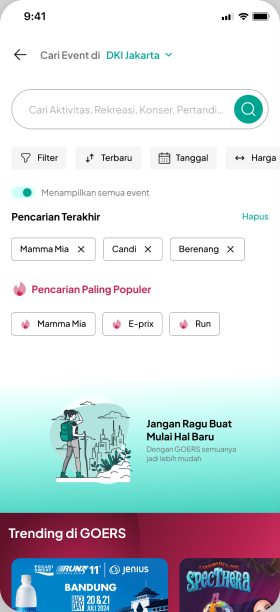
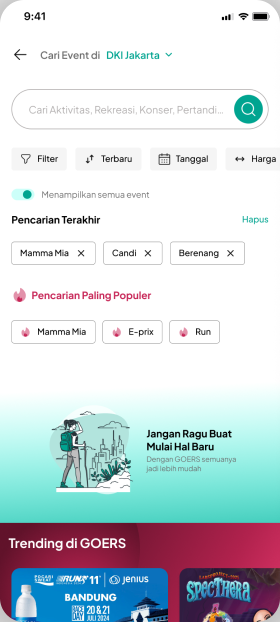
Fit phone screens to 360×800 and add a real Movin' cover (#6)
* Use the real Movin' home screen as the Mandiri Taspen cover

Claude-Session: https://claude.ai/code/session_01SQdWa2DxTx6x6MYkA5LNhw

* Fit all phone screens to 360x800 so nothing crops

Phone frames now use the 360:800 ratio on the content box, so the 3px
border no longer trims the image. Screens shorter than that ratio are
extended inside the screen instead of stretched: chat screens get more
background above the input, lists get a little more spacing. Goers and
KoinWorks covers now use full-height screens.

Claude-Session: https://claude.ai/code/session_01SQdWa2DxTx6x6MYkA5LNhw

---------

diff --git a/src/i18n/locales/ja.js b/src/i18n/locales/ja.js
@@ -165,7 +165,7 @@ export const caseStudies = [
     timeline: "2025年6月 – 2026年1月",
     scope: ["UX監査", "競合ベンチマーク", "ホーム", "検索", "情報設計", "モバイルWeb"],
     accentMetric: {"value": "4", "label": "解決したディスカバリーの課題"},
-    cover: {"src": "/work/goers/cover-home.png", "alt": "場所とカテゴリを備えた Goers の新しいモバイルホーム"},
+    cover: {"src": "/work/goers/search-landing.png", "alt": "最近の検索と人気の検索を表示する、再設計した Goers の検索画面"},
     problem: "Goers はコンサート、スポーツ、観光施設、コミュニティイベントのチケットを販売し、クリエイターが自分のイベントを作ることもできます。訪問者の多くは、目的が決まった状態で来ていました。目標はオーガニックなディスカバリー、つまり探していなかったイベントに出会ってもらうことです。ところがホームはその逆でした。カテゴリと場所はバーガーメニューの中に隠れ、どのセクションも同じカードで、記事がイベントのように見え、一覧には日付がありませんでした。",
     approach: "ディスカバリーが起きる三つの場所（ホーム、イベント探索、検索）の UX 監査から始め、Tiket.com、Loket、Eventbrite と比較しました。長い課題リストは四つに絞られました。ディスカバリーへの入口が少ない、パーソナライズがない、コンテンツ種別の階層が弱い、キュレーションが目立たない。リデザインの各変更は、このいずれかに対応しています。",
     solutions: [
@@ -204,7 +204,7 @@ export const caseStudies = [
     timeline: '2022年3月 – 2025年6月',
     scope: ['登録フロー', 'フォーム設計', '新規プロダクト 0→1', 'クーポン設計', 'UXリサーチとの協働'],
     accentMetric: { value: '+248%', label: '本人確認完了ユーザー' },
-    cover: {"src": "/work/koinworks/cover-account-type.png", "alt": "KoinWorks のアカウント種別選択画面"},
+    cover: {"src": "/work/koinworks/kyc-account-type.png", "alt": "KoinWorks のアカウント種別選択画面"},
     problem:
       'KoinWorks は融資と金融教育のプラットフォームで、登録フローからユーザーが漏れ続けていました。フォームは早い段階で多くを尋ねすぎ、検証は遅すぎました。最後になってエラーに当たり、そのまま離脱していたのです。',
     approach:
@@ -236,6 +236,7 @@ export const caseStudies = [
   },
   {
     slug: "mandiri-taspen",
+    cover: {"src": "/work/mandiri-taspen/cover-home.png", "alt": "大きなラベル付きアイコンが並ぶ Movin' のホーム画面"},
     index: "05",
     company: "Mandiri Taspen",
     title: "退職者のための銀行アプリ再構築",

diff --git a/src/i18n/locales/id.js b/src/i18n/locales/id.js
@@ -166,7 +166,7 @@ export const caseStudies = [
     timeline: "Jun 2025 – Jan 2026",
     scope: ["UX audit", "Benchmark kompetitor", "Homepage", "Pencarian", "Arsitektur informasi", "Mobile web"],
     accentMetric: {"value": "4", "label": "Masalah discovery diperbaiki"},
-    cover: {"src": "/work/goers/cover-home.png", "alt": "Homepage mobile Goers yang baru dengan lokasi dan kategori"},
+    cover: {"src": "/work/goers/search-landing.png", "alt": "Pencarian Goers yang didesain ulang dengan pencarian terakhir dan populer"},
     problem: "Goers menjual tiket konser, olahraga, tempat wisata, dan event komunitas, dan kreator bisa membuat event sendiri. Sebagian besar pengunjung datang dengan tujuan yang sudah jelas. Targetnya adalah discovery organik: orang menemukan event yang tidak mereka cari. Homepage-nya justru menghambat. Kategori dan lokasi tersembunyi di burger menu, semua section memakai kartu yang sama, artikel terlihat seperti event, dan tanggal tidak muncul di daftar.",
     approach: "Saya mulai dari UX audit di tiga tempat discovery terjadi (homepage, eksplorasi event, pencarian) dan membandingkan dengan Tiket.com, Loket, dan Eventbrite. Daftar masalah yang panjang mengerucut jadi empat: sedikit pintu masuk ke discovery, tidak ada personalisasi, hierarki antar jenis konten lemah, dan daftar kurasi yang tidak menonjol. Tiap perubahan di redesign menjawab salah satunya.",
     solutions: [
@@ -205,7 +205,7 @@ export const caseStudies = [
     timeline: 'Mar 2022 – Jun 2025',
     scope: ['Registrasi', 'Desain form', 'Produk baru 0→1', 'Sistem voucher', 'Kolaborasi UX research'],
     accentMetric: { value: '+248%', label: 'Pengguna terverifikasi' },
-    cover: {"src": "/work/koinworks/cover-account-type.png", "alt": "Layar pilihan tipe akun KoinWorks"},
+    cover: {"src": "/work/koinworks/kyc-account-type.png", "alt": "Layar pilihan tipe akun KoinWorks"},
     problem:
       'KoinWorks adalah platform pinjaman dan edukasi finansial, dan registrasinya bocor. Form-nya meminta terlalu banyak, terlalu awal, dan memvalidasi terlalu telat — orang baru kena error di ujung, lalu pergi.',
     approach:
@@ -237,6 +237,7 @@ export const caseStudies = [
   },
   {
     slug: "mandiri-taspen",
+    cover: {"src": "/work/mandiri-taspen/cover-home.png", "alt": "Layar beranda Movin' dengan ikon layanan besar berlabel"},
     index: "05",
     company: "Mandiri Taspen",
     title: "Membangun ulang aplikasi bank untuk pensiunan",

diff --git a/src/i18n/locales/en.js b/src/i18n/locales/en.js
@@ -163,7 +163,7 @@ export const caseStudies = [
     timeline: "Jun 2025 – Jan 2026",
     scope: ["UX audit", "Competitor benchmark", "Homepage", "Search", "Information architecture", "Mobile web"],
     accentMetric: {"value": "4", "label": "Discovery problems fixed"},
-    cover: {"src": "/work/goers/cover-home.png", "alt": "Redesigned Goers mobile homepage with location and categories"},
+    cover: {"src": "/work/goers/search-landing.png", "alt": "Redesigned Goers search with recent and popular searches"},
     problem: "Goers sells tickets for concerts, sports, attractions and community events, and lets creators publish their own. Most visitors arrived knowing what they wanted. The goal was organic discovery: people finding events they had not searched for. The homepage worked against that. Categories and location were hidden in the burger menu, every section used the same card, articles looked like events, and dates were missing from listings.",
     approach: "I started with a UX audit of the three places discovery happens (homepage, event exploration, search) and benchmarked Tiket.com, Loket and Eventbrite. That reduced a long list of issues to four problems: few entry points to discovery, no personalisation, weak hierarchy between content types, and curated lists that did not stand out. Each change in the redesign maps to one of them.",
     solutions: [
@@ -202,7 +202,7 @@ export const caseStudies = [
     timeline: 'Mar 2022 – Jun 2025',
     scope: ['Registration', 'Form design', 'New products 0→1', 'Voucher systems', 'UX research partnership'],
     accentMetric: { value: '+248%', label: 'Verified users' },
-    cover: {"src": "/work/koinworks/cover-account-type.png", "alt": "KoinWorks account type selection screen"},
+    cover: {"src": "/work/koinworks/kyc-account-type.png", "alt": "KoinWorks account type selection screen"},
     problem:
       'KoinWorks is a lending and financial-education platform, and registration was leaking users. The form asked for too much, too early, and validated too late — people hit an error at the end and left.',
     approach:
@@ -234,6 +234,7 @@ export const caseStudies = [
   },
   {
     slug: "mandiri-taspen",
+    cover: {"src": "/work/mandiri-taspen/cover-home.png", "alt": "Movin' home screen with large labelled service icons"},
     index: "05",
     company: "Mandiri Taspen",
     title: "Rebuilding a banking app for retirees",

diff --git a/src/styles/components.css b/src/styles/components.css
@@ -679,14 +679,14 @@ a.footer__rail:hover .footer__rail-val { color: var(--accent); }
 .cs-sol__body { color: var(--ink-70); margin-top: 0.85rem; font-size: 1.05rem; }
 @media (max-width: 680px) { .cs-solutions { grid-template-columns: 1fr; } }
 
-/* Real screens. The phone frame matches .mock; the image fills it top-aligned
-   so tall exports crop at the bottom rather than shrinking. */
-.mock--shot { padding: 0; overflow: hidden; background: #fff; }
+/* Real screens. Frames use the 360x800 phone ratio and every export is padded
+   to it, so nothing crops; taller scrolling exports crop at the bottom. */
+.mock--shot { padding: 0; overflow: hidden; background: #fff; aspect-ratio: 360 / 800; box-sizing: content-box; }
 .mock__img { display: block; width: 100%; height: 100%; object-fit: cover; object-position: top; border-radius: 23px; }
 .cs-screens-wrap { padding-top: 0; }
 .cs-screens { display: grid; grid-auto-flow: column; grid-auto-columns: minmax(200px, 240px); gap: 1.5rem; overflow-x: auto; padding-bottom: 1rem; scroll-snap-type: x mandatory; }
 .cs-screen { margin: 0; scroll-snap-align: start; }
-.cs-screen__frame { border: 3px solid var(--ink); border-radius: 26px; overflow: hidden; background: #fff; aspect-ratio: 360 / 760; box-shadow: 6px 6px 0 rgba(11,11,11,0.12); }
+.cs-screen__frame { border: 3px solid var(--ink); border-radius: 26px; overflow: hidden; background: #fff; aspect-ratio: 360 / 800; box-sizing: content-box; box-shadow: 6px 6px 0 rgba(11,11,11,0.12); }
 .cs-screen__frame img { display: block; width: 100%; height: 100%; object-fit: cover; object-position: top; }
 .cs-screen__cap { margin-top: 0.9rem; font-size: 0.9rem; line-height: 1.45; color: var(--ink-70); }
 
